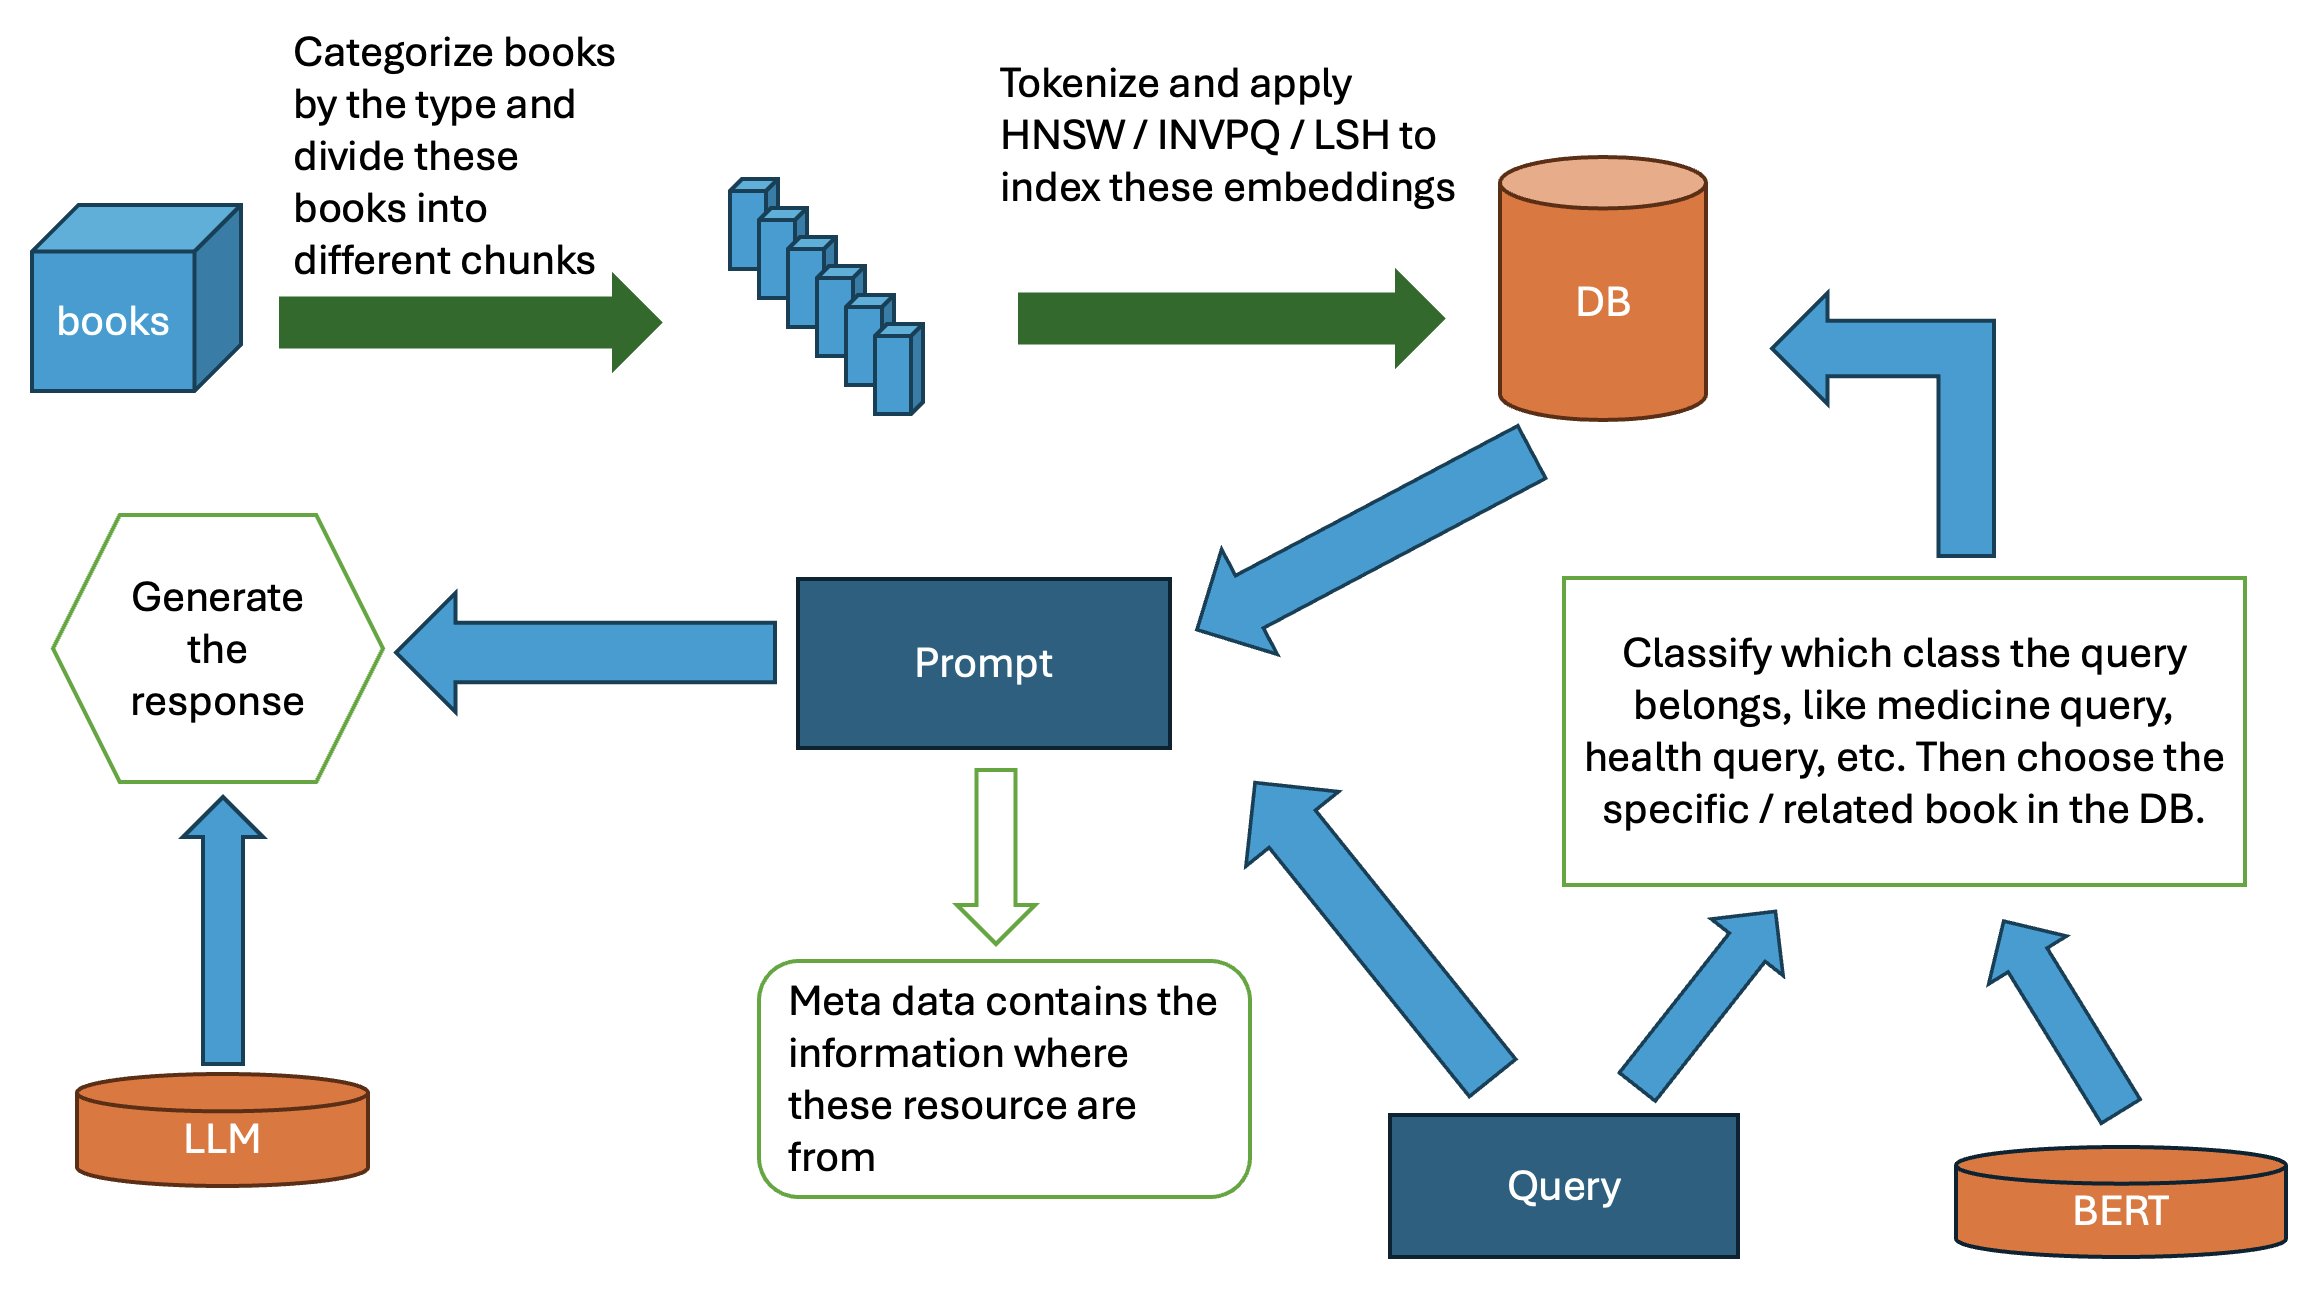
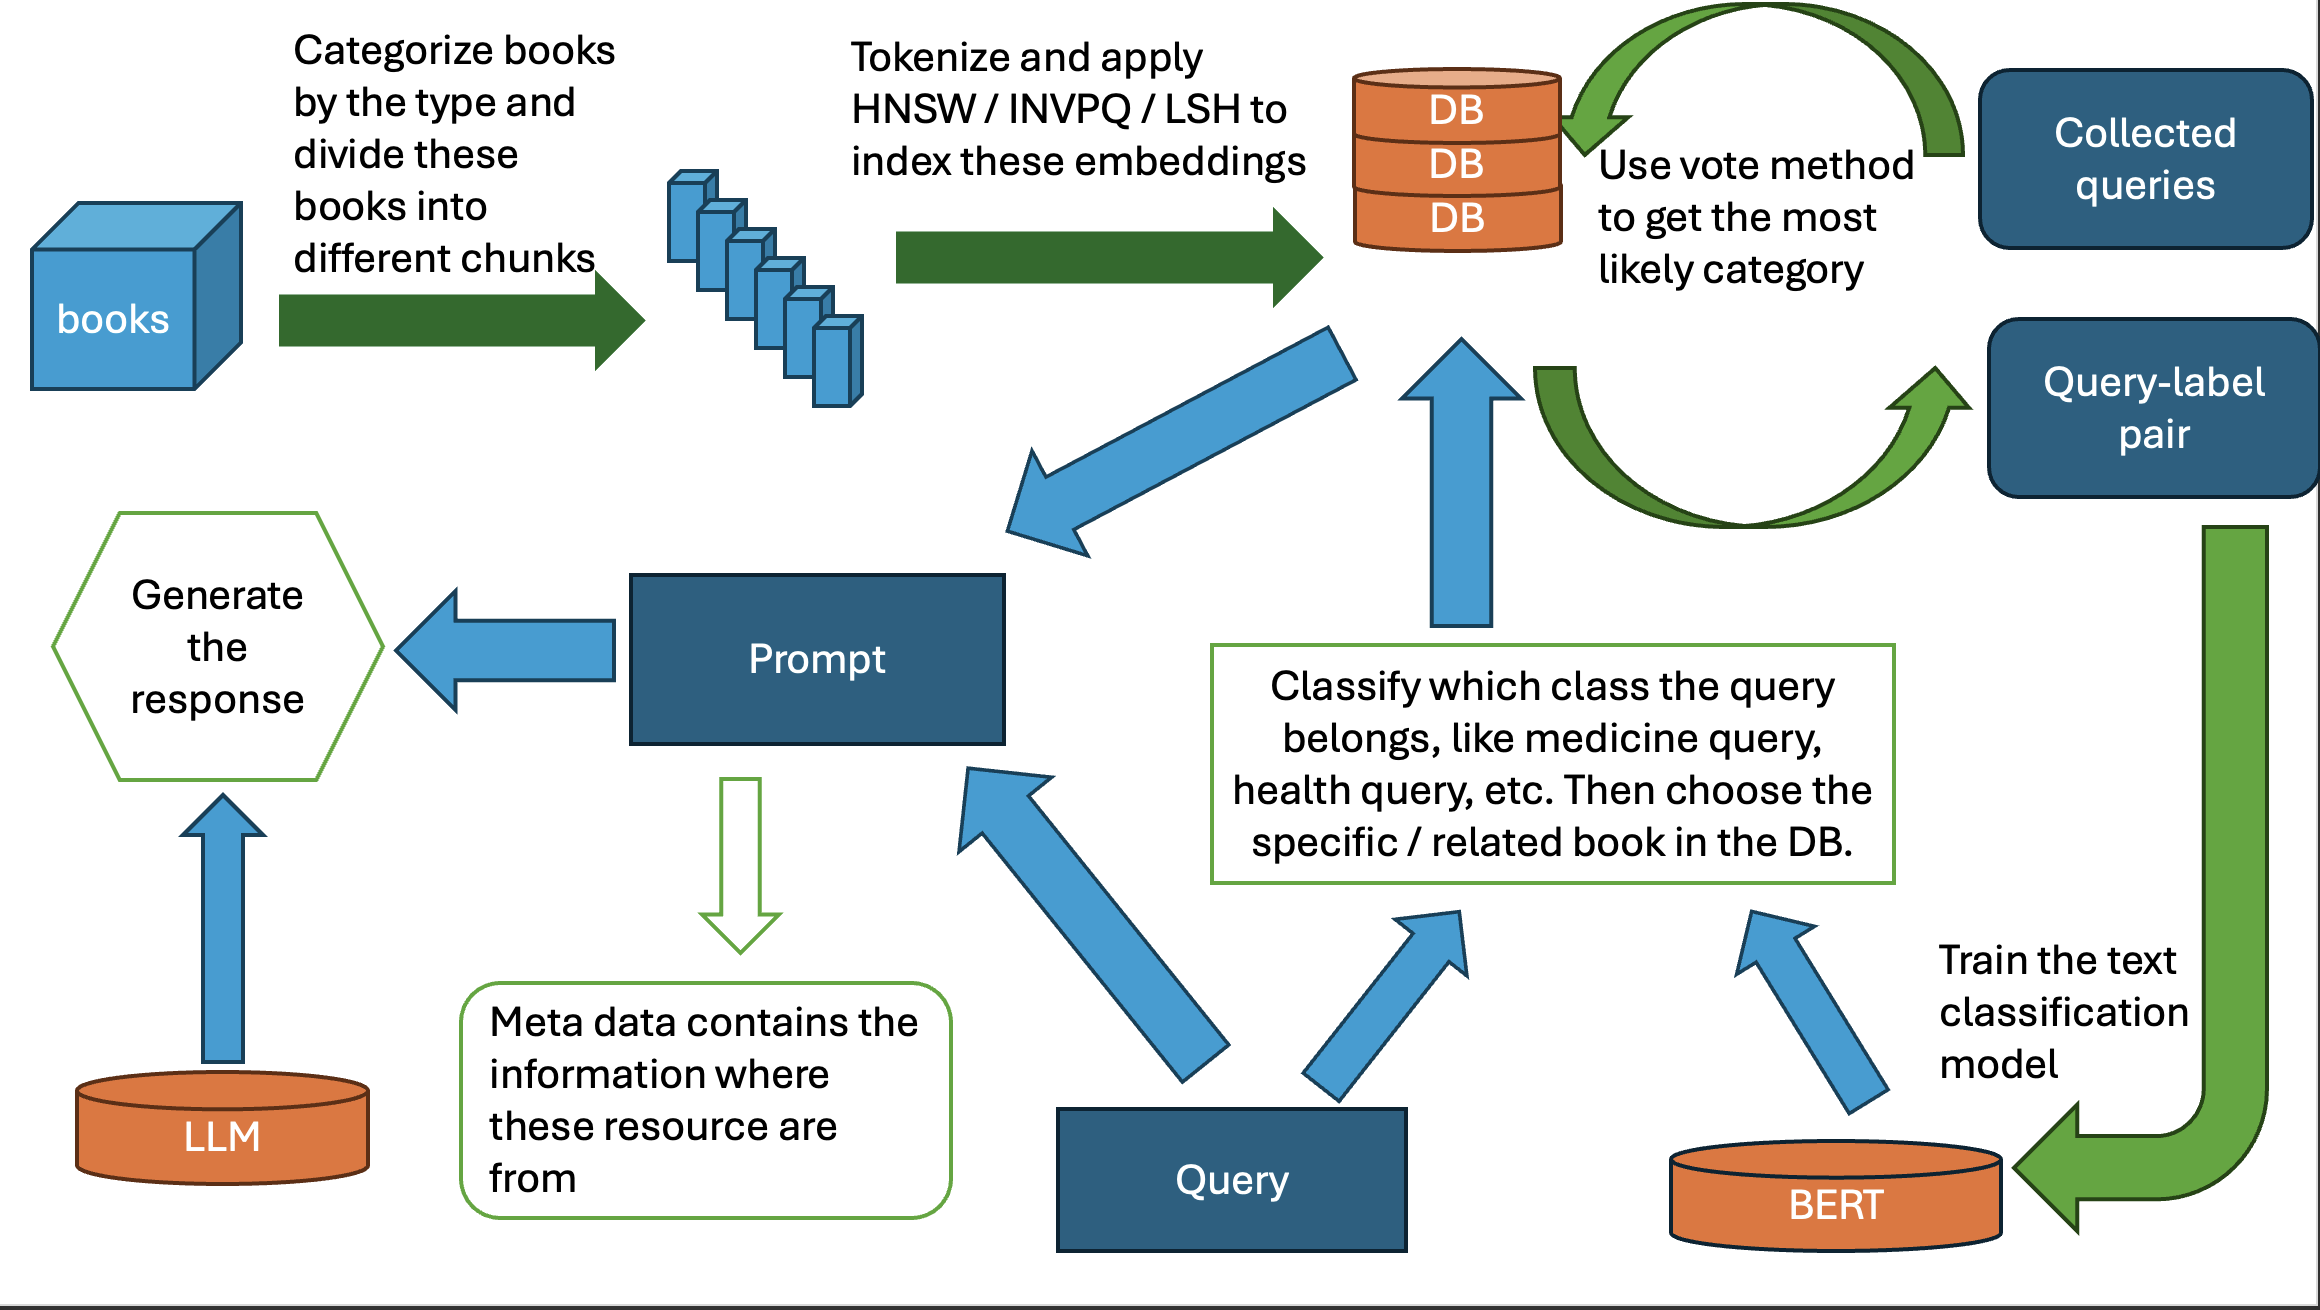
update readme

diff --git a/README.md b/README.md
@@ -2,7 +2,31 @@
 
 This project aims to build a chatbot that can adapts in the different domains, which means that as long as we have some text in specific domains, you can deploy it easily. To speed up the retrieval process, we can train a light model (like RoBerta) to classify which domain this text is in. What's more, we can also retrieve the source of data, like the page, book name, by just typing "GIVE ME THE SOURCE".
 
-The whole workflow is as follows:
+### Workflow:
+
+1.Collect lots of different kinds of professional books, categorize these books based on these chapters, and split these text into equal sized text.
+
+2.Train a text classification model
+
+1.Use embedding model (like BGE, all-MiniLM) to generate the embedding of these split text and save them into DB by utilizing LSH / KNSW/ IVFPQ index to accelerate the process of searching. 
+
+2.Collect lots of queries, apply them by using embedding model to get the embeddings, and find the category of nearest K texts in the DB.
+
+3.Choose the most voted category as the query’s category (label), so we get the query-label data pair.
+
+4.Train a text classification light model that predicts which category this query belongs to. 
+
+3.Infer the answer
+
+1.Use model from step 2 to generate the category, then find the most likely/similar M texts in the predicted domain DB.
+
+2.Generate the prompt by using these M text chunks.
+
+3.Feed the prompt to generate the answer.
+
+4.The chatbot can also output relevant data sources, such as which page of which book.
+
+The whole workflow diagram is as follows:
 
 ![workflow](imgs/workflow.png)
 
